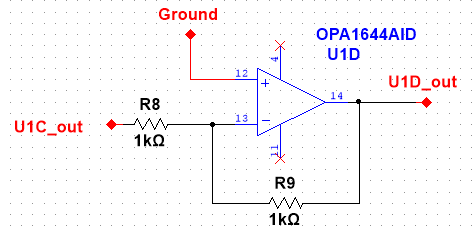
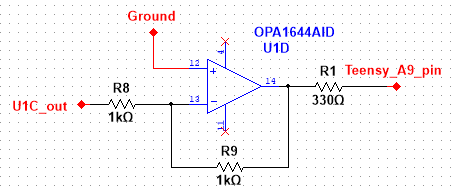
Methods done with grammarly

diff --git a/texts/methods.tex b/texts/methods.tex
@@ -7,9 +7,9 @@
 %\textbf{TALA UM AÐRA TÝPU SEM HEFÐI GETAÐ KOMIÐ TIL GREINA
 %https://www.nauta-rcs.it/English/Instruments/Hydrophones/CetaceanResearchTech/C55/C55.html}
 
-First thing that needed to be determined was the hydrophone used.
-Generally hydrophones are sensitive piezoelectric sensors that can detect small changes in pressure and convert that to electrical signal.
-This project will use the Aquarian audio H1a hydrophone, which was chosen for its low cost and good sensitivity as well as it was readily available at the Reykjavik University lab.
+The first thing that needed to be determined was the hydrophone used.
+Generally hydrophones are sensitive piezoelectric sensors that can detect small changes in pressure and convert that to an electrical signal.
+This project will use the Aquarian audio H1a hydrophone, which was chosen for its low cost and good sensitivity, it was also readily available at the Reykjavik University lab.
 
 \begin{table}[h]\caption{Important specifications of the Aquarian H1a hydrophone.\cite{noauthor_aquarian_nodate}}.\label{Tab:Aquarian}
 \begin{tabular}{l|l}
@@ -24,6 +24,8 @@ Cost            &  159\$ \\ \hline
 There is no preamplifier or impedance buffer circuit within the Aquarian H1a hydrophone, so the circuit needs to amplify the output signal of the hydrophone.
 The gain of the circuit depends on what the intended use of the hydrophone will be.
 In this case for cetaceans and large aquatic wildlife, Aquarian recommends gain of 40 - 50 dB and for very distant sounds 60dB.
+
+\clearpage
 
 \begin{equation}
 F_c = 1 / 0.000000157 * R  
@@ -42,7 +44,7 @@ This decision was made for several reasons.
 The Teensy3.5 has two built-in ADC, which means the system might be able to add another hydrophone to it for recording.
 Both ADCs have a maximum resolution of 16bits with a voltage range of 0 - 3.3V, or $\frac{3.3}{2^{16}} \approx 0.00005V \approx 50\mu V$ step size.
 The Teensy also consumes little power, when running with no peripherals active the processor is powered roughly by 50mA at 5V or 0.25W.
-Which is under the requirements set in the beginning of the project.
+Which is under the requirements set at the beginning of the project.
 As well as it was readily available at the Reykjavik University lab.
 
 \subsubsection{Operational amplifier}
@@ -82,10 +84,10 @@ It also has up to 40dB gain at 100kHz as seen in \textit{Figure~\ref{fig:dbvsFre
 \section{Circuit}\label{sec:CircResult}
 
 %From the project goals the circuit needs to be able to gather data from signals with frequencies between 10 - 100kHz. 
-It was decided to collect signals ranging from 10 - 100kHz, the lower limit which was chosen after seeing \textit{Table~\ref{Tab:WhaleHz}} and the dominant frequencies, the higher limit was chosen because in the project goal was to maximize the absolute limits of the device.
-This could be significantly reduced since most dominant frequencies are lower than 30kHz, however there are vocalization that go up to and over 100kHz so it is interesting to see if the Teensy was capable of recording these high frequency signals.
-The Aquarian H1a hydrophone data sheet specifies that for cetacean vocalization recording the gain of the preamplifier needs to be between 40 - 50 dB\cite{noauthor_aquarian_nodate}.
-The circuit will there for consist of active low pass filter and high pass filter, a scaling summing amplifier and an inverting op amp.
+It was decided to collect signals ranging from 10 - 100kHz, the lower limit which was chosen after seeing \textit{Table~\ref{Tab:WhaleHz}} and the dominant frequencies, the higher limit was chosen because the project goal was to maximize the absolute limits of the device.
+This could be significantly reduced since most dominant frequencies are lower than 30kHz however, there are vocalization that goes up to and over 100kHz so it is interesting to see if the Teensy was capable of recording these high-frequency signals.
+The Aquarian H1a hydrophone datasheet specifies that for cetacean vocalization recording the gain of the preamplifier needs to be between 40 - 50 dB\cite{noauthor_aquarian_nodate}.
+The circuit will there for consist of an active low pass filter and high pass filter, a scaling summing amplifier and an inverting op-amp.
 It will then connect to the Teensy 3.5 built-in ADC.\\
 \indent \textit{Figure \ref{fig:Opamp1}} shows the first part of the circuit.
 The output of the hydrophone is first connected to a high pass filter, where the capacitance, 25nF of the hydrophone is used as the capacitor in the high pass filter.
@@ -99,7 +101,7 @@ The output of the hydrophone is first connected to a high pass filter, where the
 
 \vspace{4cm}
 
-The desired value for the high pass filter was 10Hz and using \textit{Equation~\ref{eq:fchydro}} provided in the data sheet, the resistor value was estimated.   
+The desired value for the high pass filter was 10Hz and using \textit{Equation~\ref{eq:fchydro}} provided in the datasheet, the resistor value was estimated.   
 $$F_c = \frac{1}{0.000000157 * 636k\Omega} = 10Hz$$
 Using standard resistor values, the closest resistor value is 620k which yields a cut off frequency of 10.26Hz.
 The gain over the active high pass filter can be represented using \textit{Equation \ref{eq:DCGain}} and \textit{Equation \ref{eq:ActiveHighPass}}. 
@@ -116,7 +118,7 @@ Which is approximately equal to 20, as seen in \textit{Figure~\ref{fig:AVhighpas
 
 \vspace{4cm}
 
-\textit{Figure \ref{fig:Opamp2}} shows the active low pass filter configuration which has a cut off frequency of $\approx$ 100kHz and a gain of 2.5.
+\textit{Figure \ref{fig:Opamp2}} shows the active low pass filter configuration which has a cut-off frequency of $\approx$ 100kHz and a gain of 2.5.
 
 \begin{figure}[h]
     \centering
@@ -165,8 +167,8 @@ Which was changed to $160\Omega$ because of the addition of R16 and using Multis
 The gain for the input signal from the low pass filter is found by using \textit{Equation \ref{eq:invertDCGain}}
 $$A_{V3} = -\frac{180\Omega}{90\Omega} = -2$$
 The operational amplifier is in an inverting configuration which turns positive voltage signals to negative.
-This needs to be rectified, since the Teensy 3.5 analog pins do not have a negative voltage range.
-Which is done by another inverting operational amplifier, seen in \textit{Figure~\ref{fig:Opamp4}}.
+This needs to be rectified since the Teensy 3.5 analog pins do not have a negative voltage range.
+Which is done by another inverting operational amplifier the output of which connects to the A9 analog pin on the Teensy via a 330$\Omega$ resistor which limits the current to under 100mA, seen in \textit{Figure~\ref{fig:Opamp4}}.
 
 \begin{figure}[h]
     \centering
@@ -174,8 +176,6 @@ Which is done by another inverting operational amplifier, seen in \textit{Figure
     \caption{The final operational amplifier, which is in an inverting configuration.}
     \label{fig:Opamp4}
 \end{figure}
-
-\fxfatal{Bæta við 330ohm viðnámi í Teensyinn}
 
 The gain of inverting amplifier is found using \textit{Equation \ref{eq:invertDCGain}}.
 $$ A_{V4} = -\frac{1k \Omega}{1k \Omega} = -1$$
@@ -198,7 +198,7 @@ $$dB = 20log(100) = 40dB$$
 \end{figure}
 
 The bode plot of the circuit can be seen in \textit{Figure~\ref{fig:bode}}.
-It shows  circuit has a dB gain of $\approx$ 40, for the entire bandwidth of 10 - 100kHz.
+It shows the circuit has a dB gain of $\approx$ 40, for the entire bandwidth of 10 - 100kHz.
 
 
 
@@ -234,7 +234,7 @@ It shows  circuit has a dB gain of $\approx$ 40, for the entire bandwidth of 10 
 \subsection{Direct memory access}
 
 When transferring data between main memories and I/O devices, direct memory access (DMA) can be utilized.
-The benefit of using DMA for the data transfer is that it minimizes or eliminates the processors involvement with the data transfer.
+The benefit of using DMA for the data transfer is that it minimizes or eliminates the processor's involvement with the data transfer.
 The processor only initializes the DMA controller by configuring the read and write memory, size of data for each transfer and I/O address.
 In \textit{Figure~\ref{fig:DMAcontroller}} the process of the data transfer is better explained.
 
@@ -245,11 +245,11 @@ In \textit{Figure~\ref{fig:DMAcontroller}} the process of the data transfer is b
     \label{fig:DMAcontroller}
 \end{figure}
 
-Bus request (BR) signal is sent to the processor during the data transfer operation.
+A bus request (BR) signal is sent to the processor during the data transfer operation.
 The processor then finishes its current job and replies with a bus grant (BG) signal.
 The DMA controller receives the signal and can then initiate the data transfer.
 There are two modes in which the DMA can perform data transfers.
-The first is called flow through, where the data flows through the DMA controller between the I/O device to memory.
+The first is called flow-through, where the data flows through the DMA controller between the I/O device to memory.
 The second is called fly by, where the data is transferred directly between the I/O device and memory \cite{ahmed_design_2019}.
 
 

diff --git a/texts/introduction.tex b/texts/introduction.tex
@@ -300,8 +300,8 @@ which means the voltage output of the hydrophone would then be $V = 10^{-12dB/10
 
 \subsection{Signal conditioning}
 
-Conditioning the output signal produced by the hydrophone is important in order to only monitor only desired frequencies but also to have the voltage output in the correct range designed for the device.
-Unwanted frequencies need to be filtered out in order to get a cleaner signal in the range that is desired.
+Conditioning the output signal produced by the hydrophone is important to only monitor desired frequencies but also to have the voltage output in the correct range designed for the device.
+Unwanted frequencies need to be filtered out to get a cleaner signal in the range that is desired.
 In lower frequency application from 0 - 100kHz, a simple resistor and capacitor (RC) filters can generally be used \cite{noauthor_low_2013}.
 The cut off frequency ($F_c$) point is defined when the output signal is 70.7\% of the input, which is when the the voltage gain is at -3dB = $20log(\frac{V_{out}}{V_{in}})$.
 High pass filters work by filtering out frequencies that are lower than the set $F_c$ and allows frequencies higher to pass through.
@@ -451,7 +451,7 @@ Decibel is a relative unit of measure, used in electronic circuits to express th
 
 The gain in decibel is found by \textit{Equation \ref{eq:DBGAIN}}, where $V{out}$ is the output root mean square (RMS) voltage of the circuit and V{in} is the input RMS voltage.
 
-Summing amplifiers or summing inverter circuits are useful when combining two or more signals together.
+Summing amplifiers or summing inverter circuits are useful when combining two or more signals.
 An example of the circuit can be seen in \textit{Figure \ref{fig:SummingOpAmp}}, where $R_1 = R_2 = R_3$ would be the same value.
 The circuit yields a voltage output that is equal to all the input voltages summed together and multiplied with the unity gain of the amplifier.
 This is possible due to the virtual ground that is created by a non-inverting op-amp configuration\cite{noauthor_summing_2013}. 
